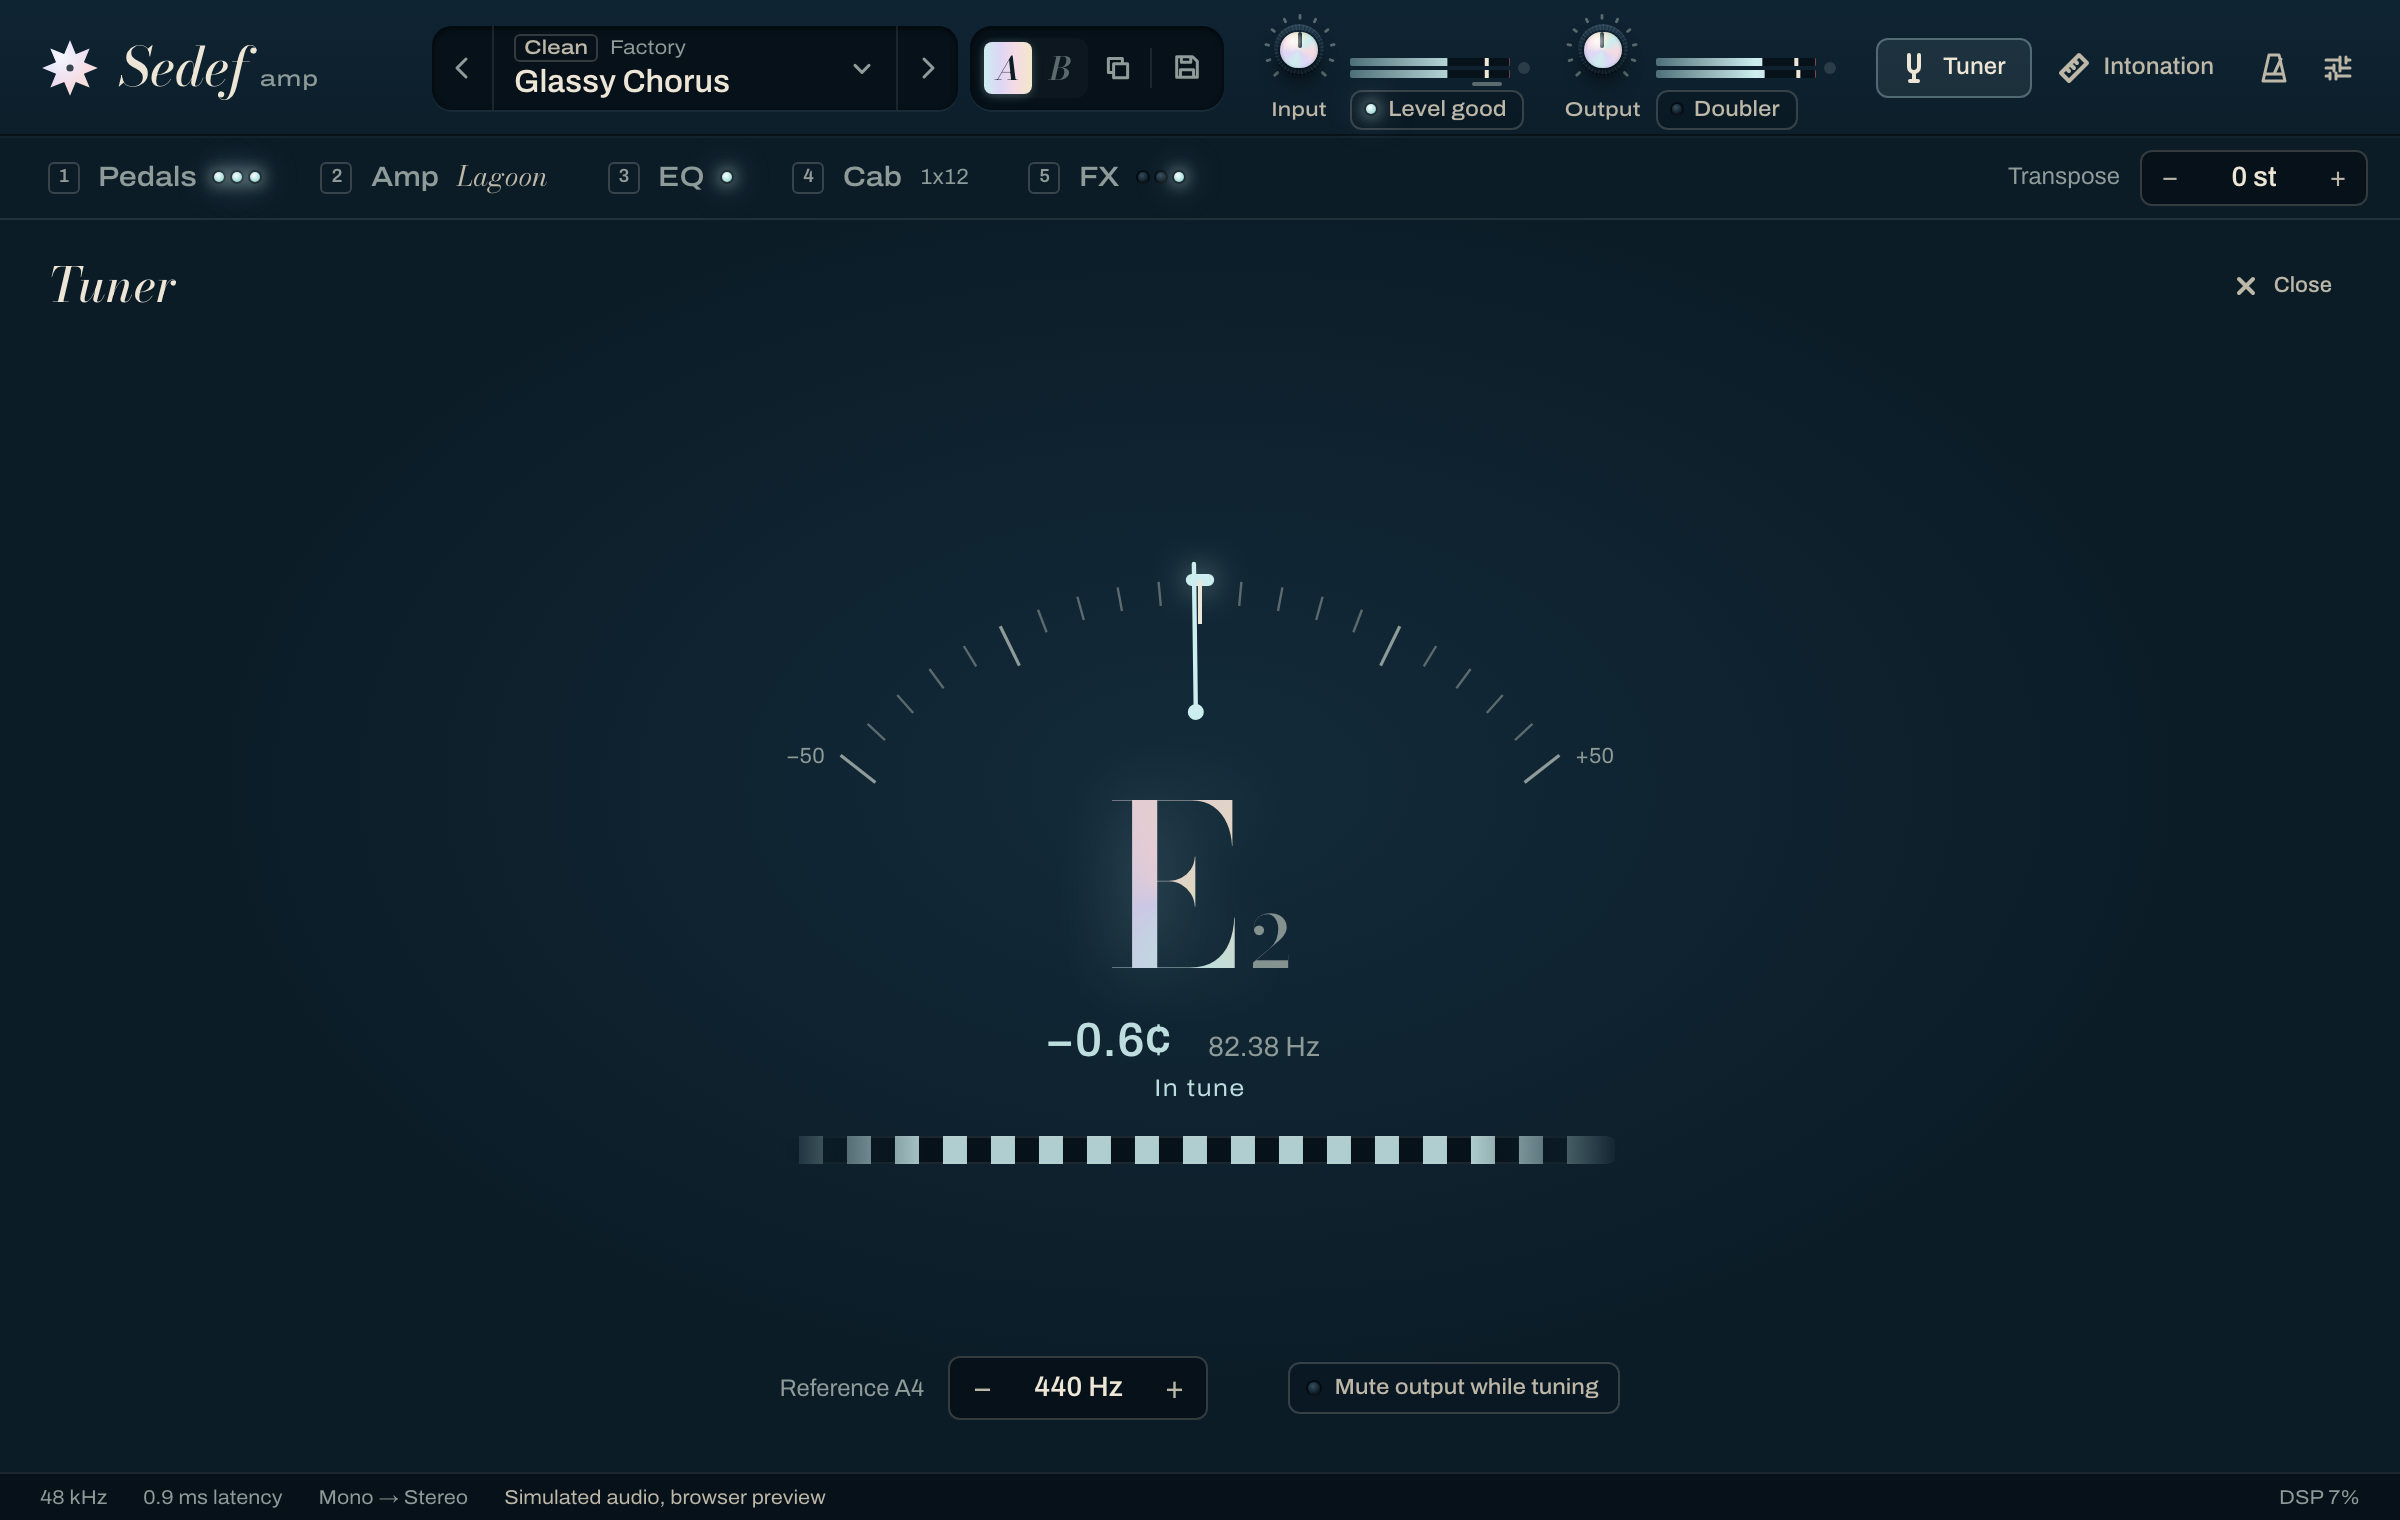
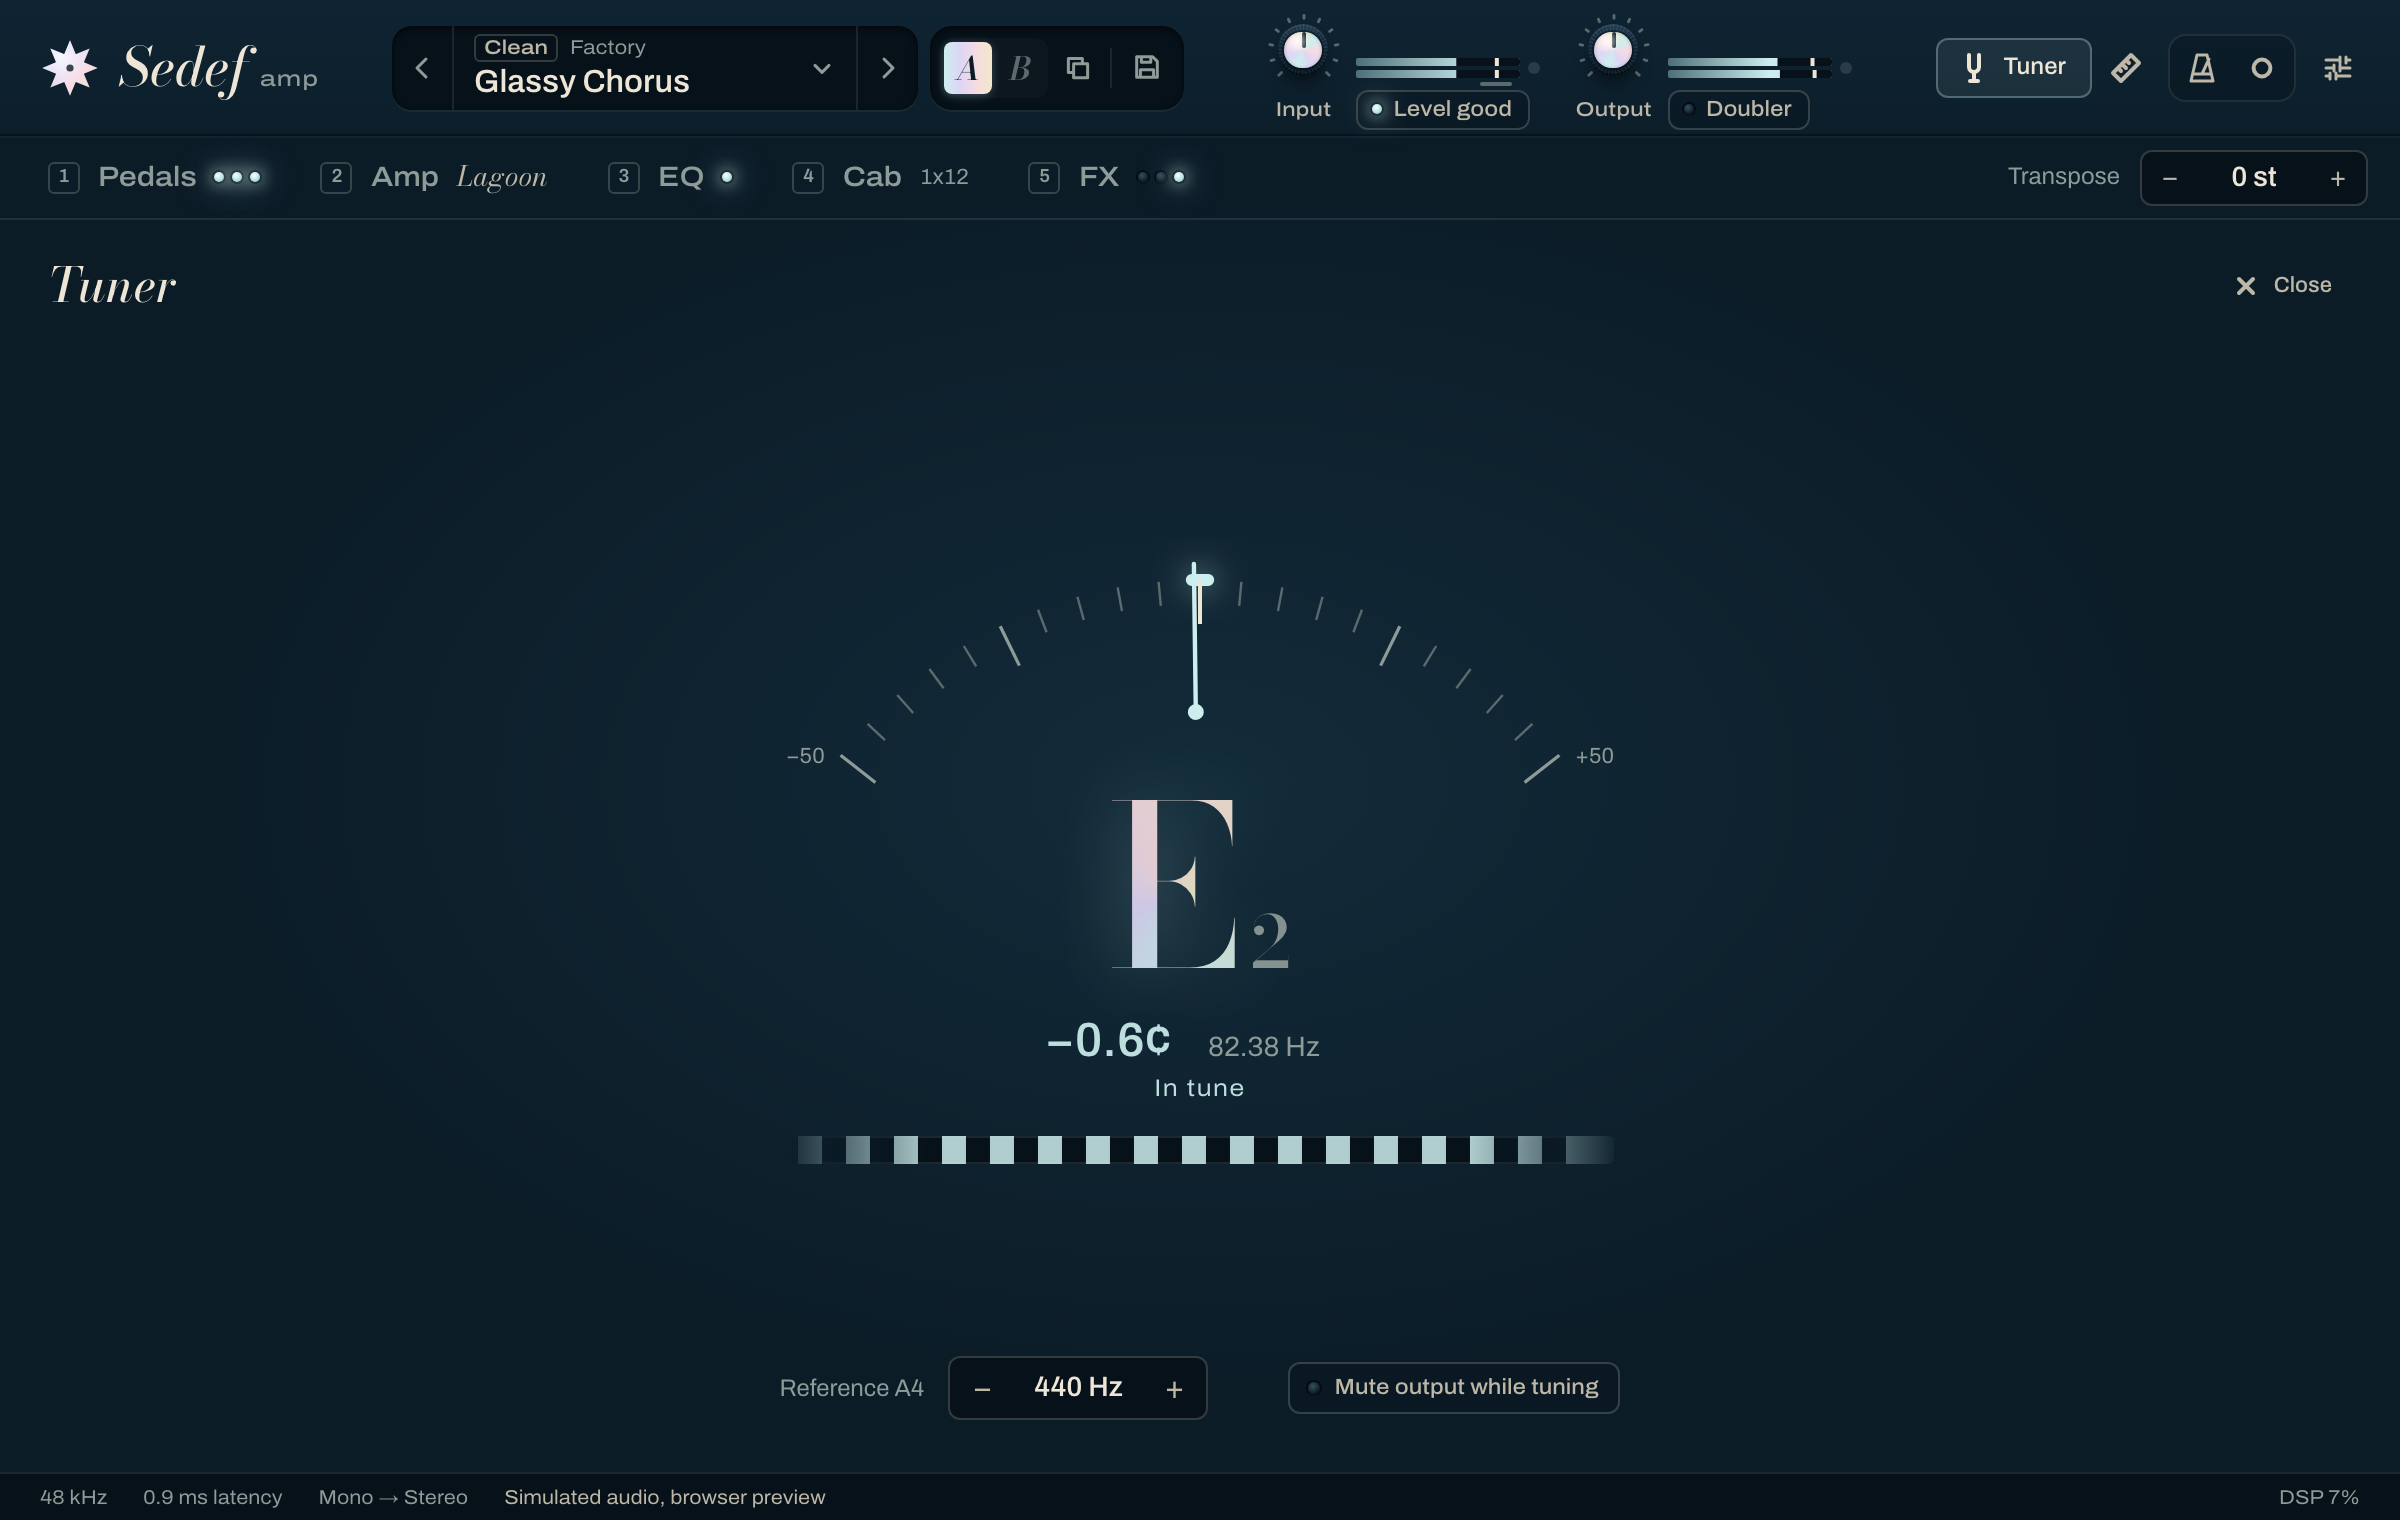
Screenshots: the Recorder and Re-amp panels; the header's transport well
Re-rendered every default shot (the header changed: the transport well
with Metronome and Recorder, Intonation as an icon). A pixel diff
against the previous images shows changes only in the header row,
except where the simulated audio moves (tuner, intonation, input level).

diff --git a/docs/recorder.md b/docs/recorder.md
@@ -39,6 +39,10 @@ already is in a narrow plug-in window. A screen reader hears a take start, its f
 and how it ended ("Take saved, 1 minute 23 seconds, 2 dropouts") from a polite status region,
 with or without the panel open.
 
+![The Recorder panel while a take records: the stop button, the time, the levels going into the DI and Output files, and the folder they go to](images/recorder.png)
+
+![The Re-amp tab playing a recorded take through the rig, looping, with the live guitar muted, above the list of takes and files](images/reamp.png)
+
 ## 2. Signal points
 
 ```
